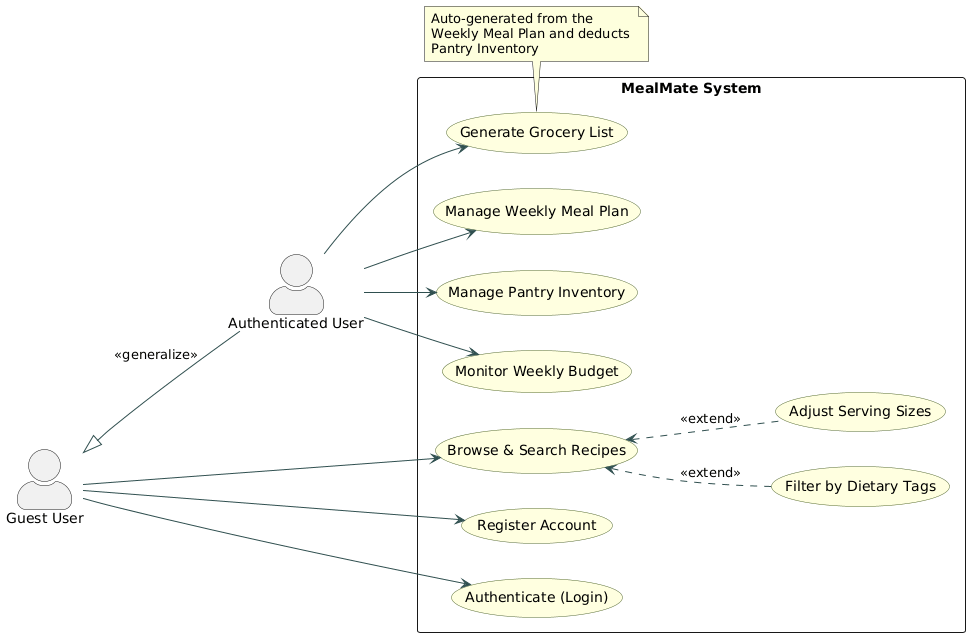
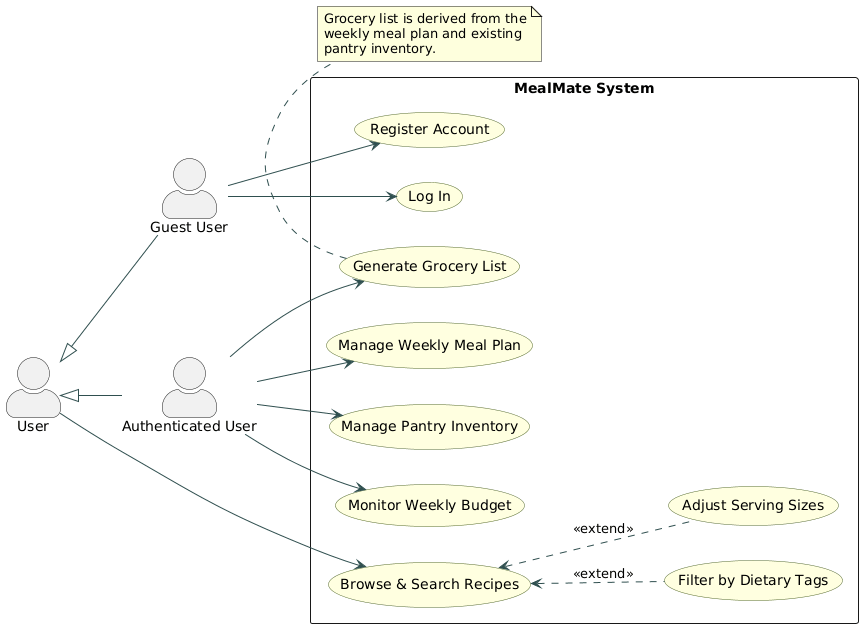
docs: finalize use case diagram actor generalization and formal notes

diff --git a/docs/UML_DIAGRAMS.md b/docs/UML_DIAGRAMS.md
@@ -20,14 +20,16 @@ skinparam usecase {
 }
 skinparam actorStyle awesome
 
+actor "User" as U
 actor "Guest User" as Guest
 actor "Authenticated User" as AuthUser
 
-AuthUser -up-|> Guest : <<generalize>>
+Guest -up-|> U
+AuthUser -up-|> U
 
 rectangle "MealMate System" {
   usecase "Register Account"             as UC_Reg
-  usecase "Authenticate (Login)"         as UC_Login
+  usecase "Log In"                       as UC_Login
   usecase "Browse & Search Recipes"      as UC_Browse
   usecase "Filter by Dietary Tags"       as UC_Filter
   usecase "Adjust Serving Sizes"         as UC_Scale
@@ -38,9 +40,10 @@ rectangle "MealMate System" {
   usecase "Monitor Weekly Budget"        as UC_Budget
 }
 
+U --> UC_Browse
+
 Guest --> UC_Reg
 Guest --> UC_Login
-Guest --> UC_Browse
 
 UC_Filter .up.> UC_Browse : <<extend>>
 UC_Scale .up.> UC_Browse : <<extend>>
@@ -51,9 +54,9 @@ AuthUser --> UC_Pantry
 AuthUser --> UC_Budget
 
 note bottom of UC_List
-  Auto-generated from the 
-  Weekly Meal Plan and deducts 
-  Pantry Inventory
+  Grocery list is derived from the
+  weekly meal plan and existing
+  pantry inventory.
 end note
 @enduml
 ```
